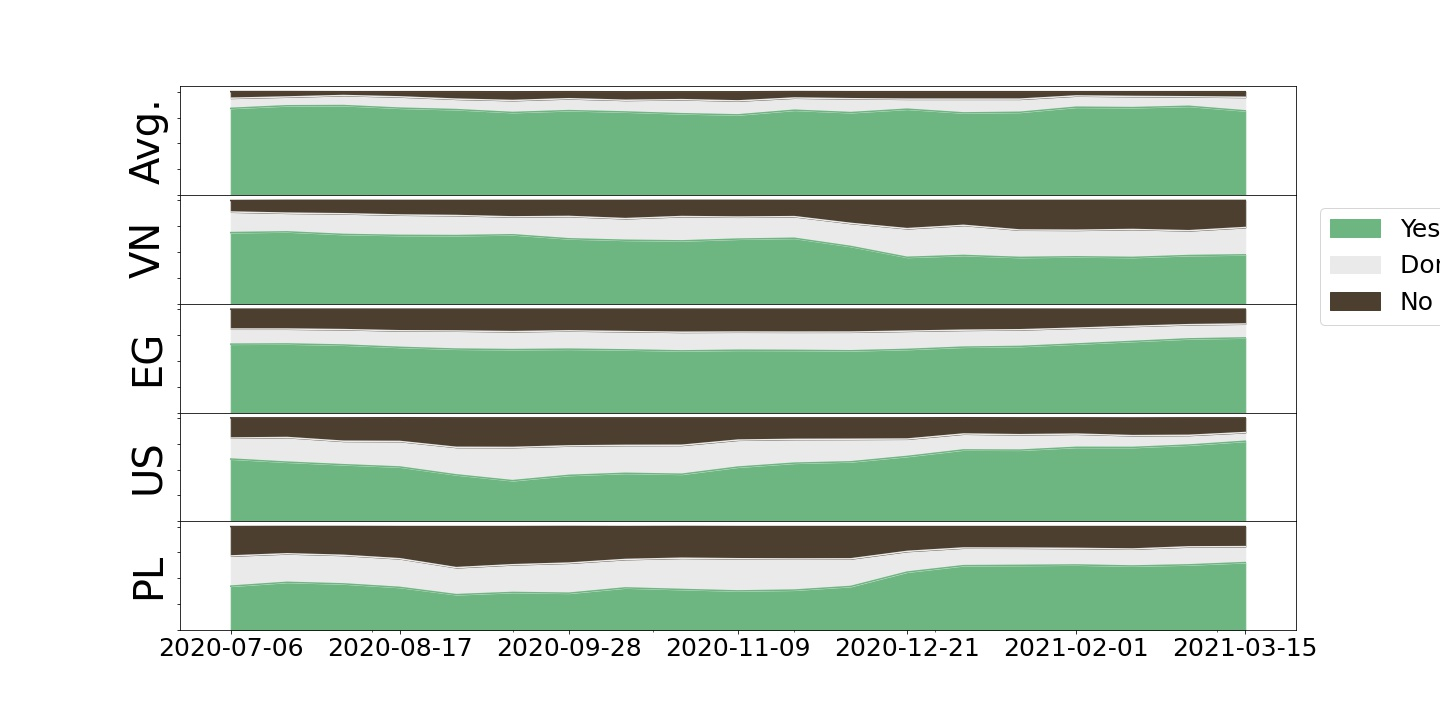
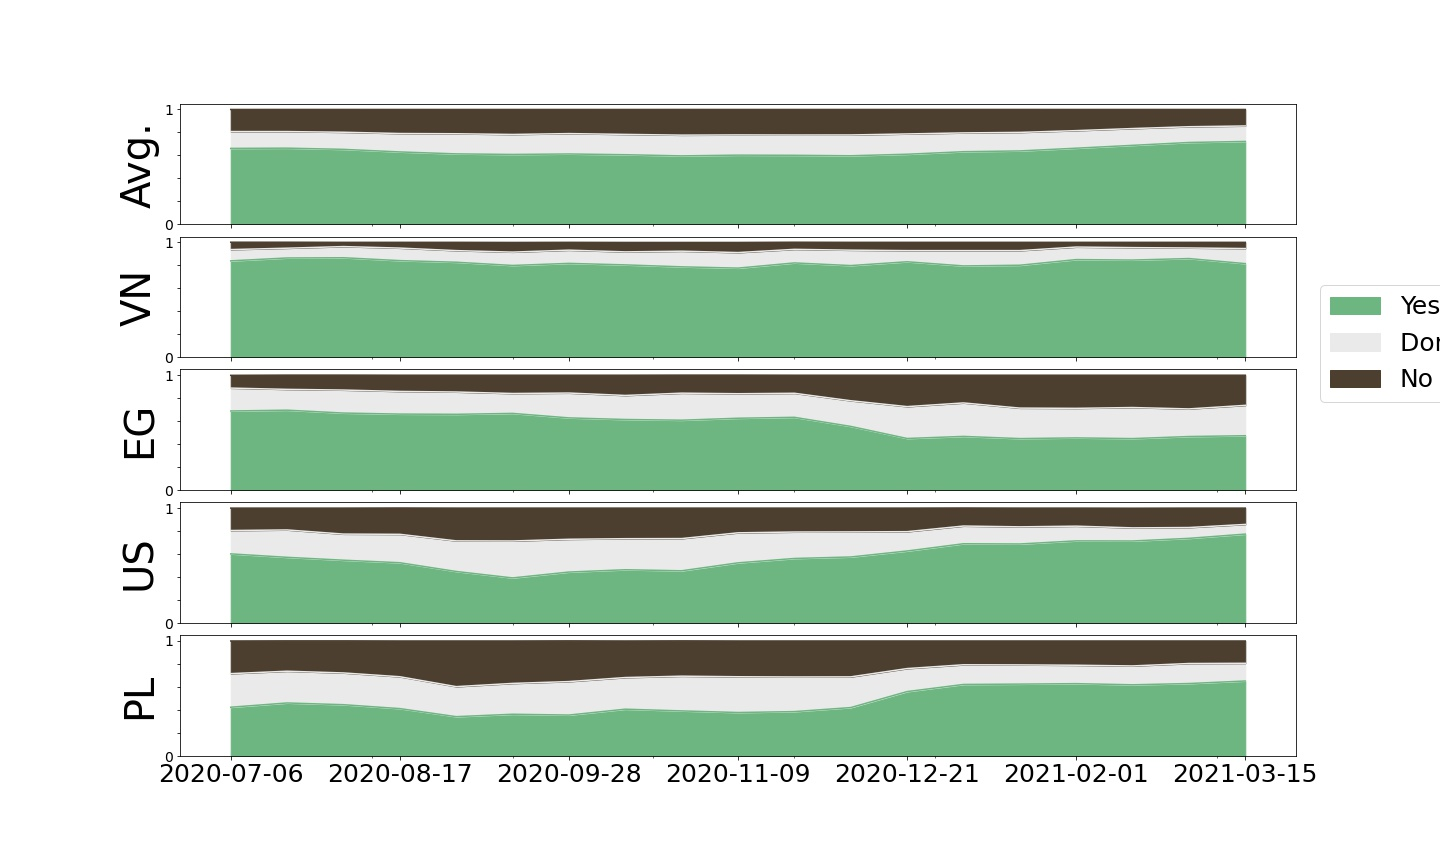
updated plots and Dean's code

diff --git a/README.md b/README.md
@@ -31,6 +31,9 @@ The following scripts are responsible for generating the respective data files:
 
 6. code/misc_plots.py -- used to generate miscellaneous plots such as the weighted/unweighted gender ratio (in Appendix A), and the table containing the langauge information
 	> makes use of the code code/make_numeric_dataset.py first to produce the file covid_survey_responses_numeric.txt.gz
+
+7. code/weight_summaries.Rmd -- used to generate Figures 1, 3 and 4 in Appendix A.
+
 # Generating the figures
 
 With the data in place in the data/ folder, all the figures are produced by running the jupyter notebook
